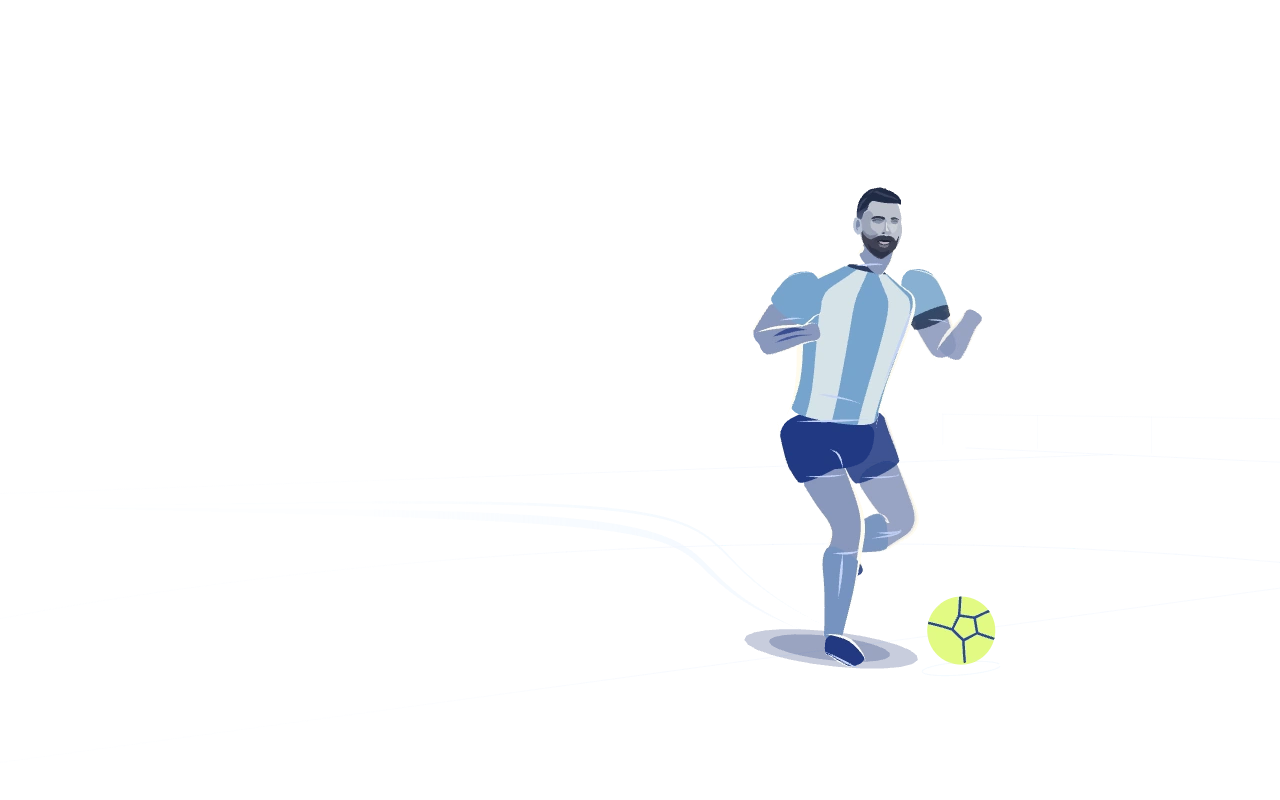
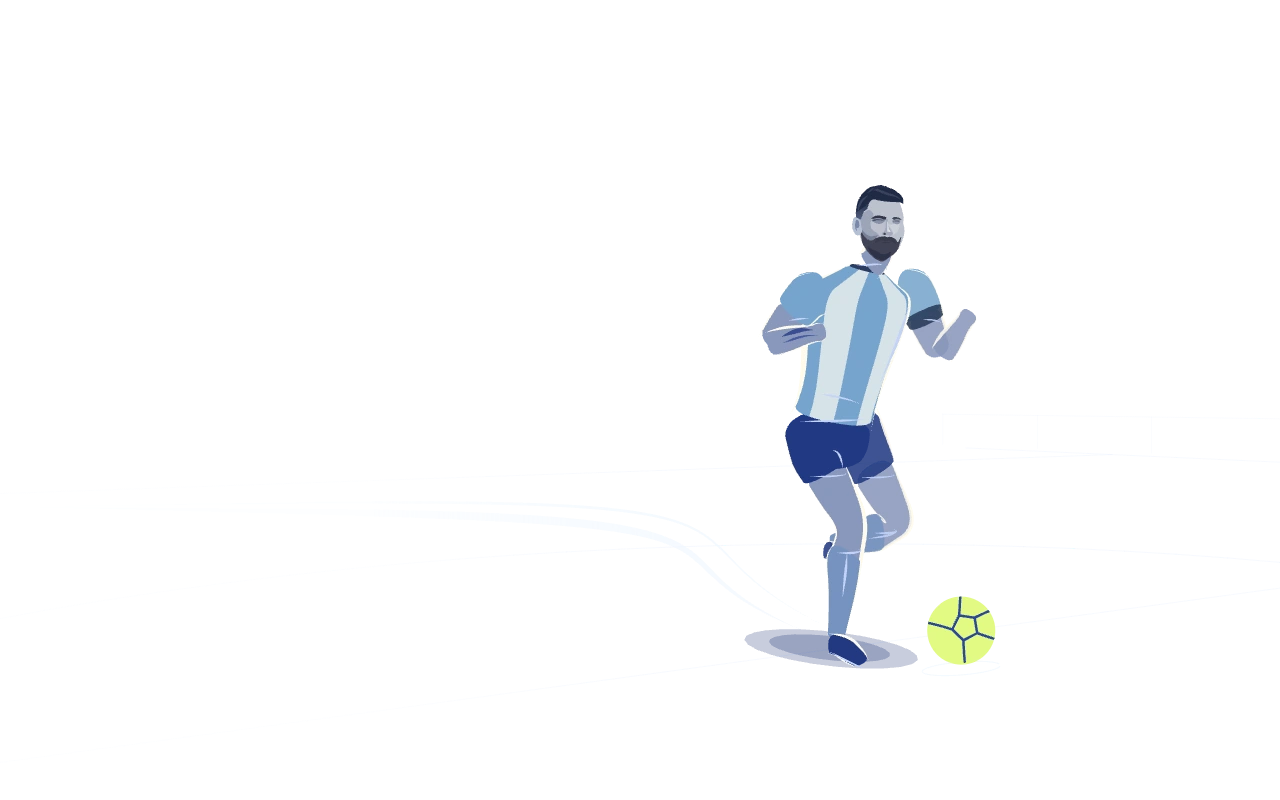
Refine player proportions and shot timing on the landing page

Changed region(s): [[0.5625, 0.2188, 0.7812, 0.8438]]

diff --git a/football-scene.js b/football-scene.js
@@ -63,14 +63,20 @@ function brush(ctx, points, width, color, bias = .5) {
   ctx.closePath(); ctx.fill();
 }
 
+// Match run speed at contact, then let the planted leg brake the body.
+function shotTravel(t) {
+  return 17*Math.min(t,strikeTime)+.34*(1-Math.exp(-50*Math.max(0,t-strikeTime)));
+}
+
 function play(t) {
   const charge = Math.min(t,.75);
   const stride = .12 + charge * dribblePace;
   const phase = stride * 2 * PI;
   const cut = ease(.27,.44,t) - .74*ease(.48,.66,t);
   const x = -.68*cut + .027*Math.sin(phase)*(1-ease(.65,.75,t));
-  const z = 17*charge + .34*ease(.75,.89,t);
-  const lift = .26*Math.sin(PI*ease(.34,.49,t));
+  const z = shotTravel(t);
+  const airborne = clamp((t-.346)/.074);
+  const lift = .145*4*airborne*(1-airborne);
   // Left-foot touches occur just before that boot comes down. Between
   // touches the ball rolls ahead, slows and is caught by the next stride.
   const roll = (stride+.54)%1;
@@ -80,7 +86,9 @@ function play(t) {
     17*charge + .48 + lead];
   const contact = [-.68*.26+.19, .13, 17*.75+.52];
   const planted = between(runBall,contact,ease(.68,.75,t));
-  const flight = clamp((t-strikeTime)/(impactTime-strikeTime));
+  const elapsed = clamp((t-strikeTime)/(impactTime-strikeTime));
+  // Put a little more of the flight distance into the initial release.
+  const flight = elapsed + .18*elapsed*(1-ease(0,.60,elapsed));
   const ball = between(planted,[targetX,targetY,netDepth-.12],flight);
   ball[1] += 2.4*flight*(1-flight);
   if (t > impactTime) {
@@ -198,6 +206,8 @@ function runningLeg(side, cycle, hips) {
 }
 
 function runnerPose(t,stride) {
+  const plantTime=.735;
+  stride+=(7-(.12+plantTime*dribblePace))*ease(.57,.70,t);
   const swing = Math.sin(stride*2*PI);
   const bounce = -.027*Math.cos((stride-.12)*4*PI);
   const lean = .244+.075*ease(.28,.42,t)-.075*ease(.48,.6,t);
@@ -216,48 +226,78 @@ function runnerPose(t,stride) {
   function blendSide(side,parts,weight) {
     pose[side]=pose[side].map((p,i)=>between(p,parts[i],weight));
   }
-  const leap=Math.sin(PI*ease(.34,.49,t));
-  for(const s of [-1,1]) {
-    blendSide(s,[[s*.22,1.49,.22],[s*.41,1.30,.12+.28*s],[s*.50,1.39,.21+.42*s],
-      [s*.14,.92,0],[s*.20,.73,.30*s],[s*.21,.47,.47*s-.10]],leap);
+  // A single running bound: the front knee clears the boot, the rear heel
+  // folds under the hip, then the front foot reaches the turf first.
+  const bound=ease(.321,.363,t)*(1-ease(.407,.446,t));
+  const landing=ease(.37,.420,t);
+  for (const side of [-1,1]) {
+    const front=side===1;
+    const thigh=[side*.11,.842,0];
+    const ankle=front?[.12,mix(.32,.078,landing),mix(.27,.39,landing)]:
+      [-.13,mix(.18,.34,landing),mix(-.48,-.21,landing)];
+    const leg=reachJoint(thigh,ankle,[side*.08,.06,1],.445,.445);
+    const shoulder=[side*.20,1.38,.25];
+    const elbow=[side*.25,1.16,front?.03:.39];
+    const wrist=[side*.24,1.22,front?.25:.58];
+    blendSide(side,[shoulder,elbow,wrist,...leg],bound);
   }
-  const wind=ease(.65,.725,t), contact=ease(.726,.75,t), kick=ease(.75,.79,t), rest=ease(.84,.99,t);
-  const transfer = wind*(1-rest);
-  pose.chest=between(pose.chest,[-.067,1.412,.13],transfer);
-  pose.head=between(pose.head,[-.082,1.708,.18],transfer);
-  const weightShift=.070*wind-.115*rest;
-  pose.hip[0]-=weightShift;
-  pose.chest[0]-=.6*weightShift;
-  pose.head[0]-=.45*weightShift;
-  for (const s of [-1,1]) {
-    const support=s===-1;
-    const plant = .40+17*(.75-Math.max(.733,Math.min(t,.75)))-.34*ease(.75,.89,t);
-    const coil=[[s*.21-.055,support?1.42:1.46,.105],
-      [support?-.41:.33,support?1.29:1.22,support?.02:-.09],
-      [support?-.49:.29,support?1.33:1.29,support?.14:.11],
-      [s*.117,.884,0], [support?-.15:.29,support?.48:.52,support?.37:-.23],
-      [support?-.16:.38,support?.08:.56,support?plant:-.60]];
-    const strike=[[s*.22-.055,support?1.43:1.46,.115],
-      [support?-.44:.31,support?1.28:1.21,.06],
-      [support?-.53:.22,support?1.30:1.29,support?.18:.31],
-      [s*.117,.894,0],[s*.15,support?.48:.71,support?.32:.45],[s*.16,support?.08:.50,support?plant:.76]];
-    const standing=[[s*.21,1.46,.10],[s*.31,1.20,.05-.10*s],[s*.32,1.09,.24-.13*s],
-      [s*.117,.884,0],[s*.15,support?.49:.54,support?.16:.28],
-      [s*.16,.08,support?plant:.36]];
-    const impact = coil.map((p,i)=>between(p,strike[i],.48));
-    if (!support) {
-      impact[4]=[.16,.49,.28];
-      impact[5]=[.18,.14,.37];
+  if (t<.709) return pose;
+  const gather=ease(.709,plantTime,t);
+  // Slow the kicking leg through its forward arc, anchored at contact.
+  // Blend back to scene time outside the swing to join the run and recovery.
+  const swingWindow=ease(.711,.727,t)*(1-ease(.773,.80,t));
+  const swingTime=mix(t,strikeTime,.40*swingWindow);
+  const release=ease(.737,.779,t);
+  const recover=ease(.782,.866,t);
+  const followThrough=ease(strikeTime,.770,t)*(1-recover);
+  const hipX=mix(-.058,.018,recover);
+  const hipY=.85+.045*release-.030*recover;
+  pose.hip=between(pose.hip,[hipX,hipY,0],gather);
+  pose.chest=between(pose.chest,[hipX-.038,hipY+.522,.245-.14*recover+.035*followThrough],gather);
+  pose.head=between(pose.head,[hipX-.048,hipY+.758,.34-.19*recover+.035*followThrough],gather);
+
+  for (const side of [-1,1]) {
+    const support=side===-1;
+    const twist=side*((-.083+.178*release)*(1-recover)+.033*followThrough);
+    const shoulder=offset(pose.chest,side*.205,0,twist);
+    const spread=(support?.24:.14)*(1-recover);
+    const elbow=offset(shoulder,side*(.065+spread),-.19,.04+twist);
+    const wrist=offset(elbow,side*spread*.35,-.055,.215);
+    const thigh=offset(pose.hip,side*.113,0,0);
+    let leg;
+    if (support) {
+      // Before touchdown keep the actual running leg. From touchdown onward
+      // its target is one fixed spot beside the ball in pitch coordinates.
+      if (t<plantTime) leg=pose[side].slice(3);
+      else {
+        const ankle=[-.112,.08,shotTravel(plantTime)+.44-shotTravel(t)];
+        leg=reachJoint(thigh,ankle,[-.09,.05,1],.45,.444);
+      }
+    } else {
+      // Thigh leads. The flexed knee keeps the heel back until the lower
+      // leg swings through impact. Both angles keep moving past contact.
+      const drive=ease(.724,.765,swingTime);
+      // Compress the knee extension around the same boot-to-ball contact pose.
+      const snap=ease(.734,.762,strikeTime+(swingTime-strikeTime)*1.18);
+      const windup=ease(.714,plantTime,swingTime)*(1-ease(plantTime,strikeTime,swingTime));
+      const upper=mix(-.25,1.29,drive)-.70*windup+.07*followThrough;
+      const lower=mix(-1.65,1.38,snap)-.42*windup;
+      // Open the swing plane slightly so the rear camera sees the heel
+      // sweep outside the hip before the leg straightens toward the ball.
+      const open=.22*windup;
+      function legSegment(start,length,angle,lateral) {
+        const forward=length*Math.sin(angle);
+        return offset(start,lateral*Math.cos(open)-forward*Math.sin(open),
+          -length*Math.cos(angle),lateral*Math.sin(open)+forward*Math.cos(open));
+      }
+      const knee=legSegment(thigh,.45,upper,.018);
+      const ankle=legSegment(knee,.444,lower,.086-.15*ease(strikeTime,.781,swingTime));
+      const settled=reachJoint(thigh,[.12,.081,.36],[.13,.04,1],.45,.444);
+      leg=[thigh,between(knee,settled[1],recover),between(ankle,settled[2],recover)];
     }
-    blendSide(s,coil,wind); blendSide(s,impact,contact);
-    blendSide(s,strike,kick); blendSide(s,standing,rest);
-    if (wind) {
-      const joints=pose[s];
-      joints[3][0]-=weightShift;
-      const solved=reachJoint(joints[3],joints[5],[s*.13,.03,1],.45,.444);
-      joints[4]=between(joints[4],solved[1],wind);
-      joints[5]=between(joints[5],solved[2],wind);
-    }
+    const legBlend=support?gather:ease(.709,plantTime,swingTime);
+    const shotPose=[shoulder,elbow,wrist,...leg];
+    pose[side]=pose[side].map((joint,i)=>between(joint,shotPose[i],i<3?gather:legBlend));
   }
   return pose;
 }
@@ -490,7 +530,7 @@ function athlete(ctx,view,feet,pose,role='runner') {
   const depth = view.depth(feet);
   if (depth < 1.4) return;
   const size = view.scale(feet);
-  const build = away ? 1 : 1.065;
+  const build = away ? 1 : .94;
   const place = p => {
     const [x,y,z] = pose.transform ? pose.transform(p) : p;
     return offset(feet,x*direction*build,y,z*direction);
@@ -656,7 +696,7 @@ function athlete(ctx,view,feet,pose,role='runner') {
       [offset(head,0,.076,-.011),.067,.074],[offset(head,0,.111,-.026),.030,.036]],fills.skin,.013);
     hair(ctx,point,head,look,cameraSide,size,fills.hair,ink);
   } else {
-    drawPortrait(ctx,point(head),view.scale(place(head)),view.orbit);
+    drawPortrait(ctx,point(head),view.scale(place(head))*1.07,view.orbit);
   }
   ctx.restore();
 }

diff --git a/football-portrait.js b/football-portrait.js
@@ -59,15 +59,9 @@ const stubble = landmark(
 const moustache = landmark(
   '158,167 162,157 175,151 183,149 188,152 194,150 202,152 210,162 211,168 201,162 193,160 185,162 178,160 169,161',
   '425,391 421,367 404,351 387,341 377,341 368,338 357,338 350,347 352,360 363,363 373,365 382,368 394,370 411,380');
-const underLip = landmark(
-  '169,174 178,176 186,177 197,173 195,180 186,184 178,182 173,181',
-  '403,393 389,395 380,397 367,396 365,403 376,408 389,406 396,403');
 const mouth = landmark(
-  '164,166 173,162 181,161 186,162 194,161 201,164 203,167 195,170 185,172 175,170',
-  '411,386 399,379 389,376 383,376 375,373 359,369 358,375 366,382 378,388 392,388');
-const lip = landmark(
-  '170,166 180,167 191,167 199,166 194,171 184,174 175,172',
-  '402,383 389,385 378,387 364,384 369,394 382,396 395,390');
+  '171,166 178,165 185,165 193,165 198,166 191,166 183,167 177,166',
+  '402,381 393,379 384,376 372,374 362,373 370,376 384,379 393,380');
 const hair = landmark(
   '117,111 115,90 119,65 131,43 148,27 164,23 176,21 187,26 203,32 218,43 226,55 225,68 218,64 210,63 195,63 181,63 164,61 150,59 141,67 136,83 127,93 124,109',
   '659,259 687,225 698,174 689,110 669,71 632,42 585,24 536,17 477,16 419,23 364,47 327,79 326,95 345,107 372,112 409,107 458,103 490,100 503,119 503,150 528,171 566,218');
@@ -126,7 +120,7 @@ export function drawPortrait(ctx,[x,y],scale,angle) {
   draw(cheek,'#9ca5b9');draw(cheekLight,'#cbd0d7');
   draw(stubble,'#798297');
   draw(beard,'#414253');draw(chin,'#2d3248');draw(moustache,'#363b4c');
-  draw(underLip,'#797789');draw(mouth,'#202335');draw(lip,'#b9b0bd');
+  draw(mouth,'#303443');
   draw(socket,'#8791a6');draw(farSocket,'#9097ab');
   draw(nose,'#a2a9bc');draw(bridgeLight,'#dae0e2');draw(nostril,'#44475a');
   draw(brow,'#333748');draw(farBrow,'#424655');

diff --git a/landing.css b/landing.css
@@ -29,7 +29,7 @@
 .story-chapter { position: relative; display: flex; align-items: center; min-height: 140svh; padding-block: 6rem; }
 .opening { min-height: 100svh; padding-block: 7rem 5rem; }
 .live-pitch .chapter-entry { min-height: 205svh; }
-.live-pitch .chapter-follow { min-height: 200svh; }
+.live-pitch .chapter-follow { min-height: 232svh; }
 .chapter-text { width: min(42%, 35rem); }
 .chapter-entry .chapter-text { margin-left: auto; }
 .landing-label { font-size: .85rem; letter-spacing: .085em; font-weight: 700; text-transform: uppercase; }
@@ -66,7 +66,7 @@
   .nav-action { padding-inline: .85rem; }
   .story-chapter { align-items: flex-start; min-height: 120svh; padding-block: 5.5rem; }
   .live-pitch .chapter-entry { min-height: 170svh; }
-  .live-pitch .chapter-follow { min-height: 175svh; }
+  .live-pitch .chapter-follow { min-height: 207svh; }
   .opening { min-height: max(100svh, 42rem); }
   .chapter-text { width: min(100%, 27rem); }
   .chapter-entry .chapter-text { margin-left: 0; }

diff --git a/landing.js b/landing.js
@@ -53,12 +53,20 @@ function resize() {
   top = story.getBoundingClientRect().top + scrollY;
   const entry = entryChapter.offsetTop;
   const fixtures = fixturesChapter.offsetTop;
+  const goalScroll = (fixturesChapter.offsetHeight-height)*.71;
   beats = [
     [0,0],
     [entry,.28],
     [entry+(entryChapter.offsetHeight-height)*.45,.43],
     [fixtures,.69],
-    [fixtures+(fixturesChapter.offsetHeight-height)*.62,.93],
+    // Spend more scroll travel on the backswing and boot contact, then
+    // pick up the pace again as the ball heads toward the keeper.
+    [fixtures+goalScroll*.055,.708],
+    [fixtures+goalScroll*.14,.725],
+    [fixtures+goalScroll*.34,.75],
+    [fixtures+goalScroll*.575,.778],
+    [fixtures+goalScroll*.69,.804],
+    [fixtures+goalScroll,.93],
     [story.offsetHeight-height,1],
   ];
   progress = target = position();
